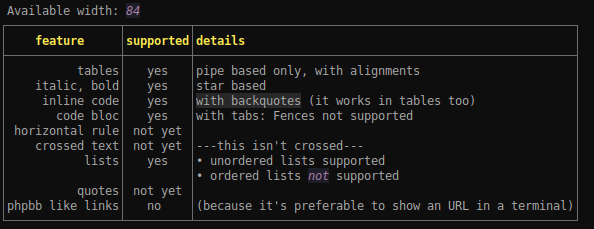
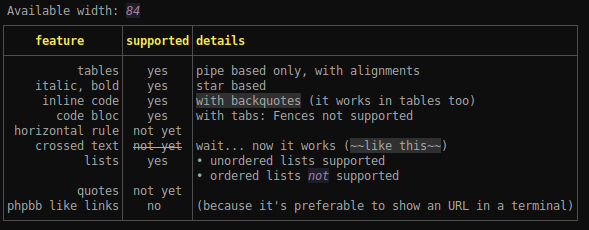
support strikeout text (with ~~)
Also fixes some width related bugs

Changed region(s): [[0.0, 0.0, 0.9779, 0.9782]]

diff --git a/src/skin.rs b/src/skin.rs
@@ -1,4 +1,4 @@
-use crate::area::Area;
+use crate::area::{Area, terminal_size};
 use crate::composite::FmtComposite;
 use crate::inline::FmtInline;
 use crate::line::FmtLine;
@@ -17,6 +17,7 @@ pub struct MadSkin {
     pub paragraph: LineStyle,
     pub bold: CompoundStyle,
     pub italic: CompoundStyle,
+    pub strikeout: CompoundStyle,
     pub code: LineStyle,
     pub headers: [LineStyle; MAX_HEADER_DEPTH],
     pub scrollbar: ScrollBarStyle,
@@ -31,6 +32,7 @@ impl Default for MadSkin {
             paragraph: LineStyle::default(),
             bold: CompoundStyle::new(Some(Color::White), None, vec![Attribute::Bold]),
             italic: CompoundStyle::with_attr(Attribute::Italic),
+            strikeout: CompoundStyle::with_attr(Attribute::CrossedOut),
             code: LineStyle::default(),
             headers: Default::default(),
             scrollbar: ScrollBarStyle::new(),
@@ -97,6 +99,9 @@ impl MadSkin {
         if compound.italic {
             os.overwrite_with(&self.italic);
         }
+        if compound.strikeout {
+            os.overwrite_with(&self.strikeout);
+        }
         if compound.bold {
             os.overwrite_with(&self.bold);
         }
@@ -118,6 +123,7 @@ impl MadSkin {
             composite,
         }
     }
+
     /// return a formatted text.
     /// Code blocs will be right justified
     pub fn text<'k, 's>(&'k self, src: &'s str, width: Option<usize>) -> FmtText<'k, 's> {
@@ -128,14 +134,15 @@ impl MadSkin {
     /// width.
     /// Code blocs will be right justified
     pub fn term_text<'k, 's>(&'k self, src: &'s str) -> FmtText<'k, 's> {
-        let (width, _) = Terminal::new().terminal_size();
+        let (width, _) = terminal_size();
         FmtText::from(self, src, Some(width as usize))
     }
+
     /// return a formatted text, with lines wrapped or justified for the
     /// passed area width (with space for a scrollbar).
     /// Code blocs will be right justified
     pub fn area_text<'k, 's>(&'k self, src: &'s str, area: &Area) -> FmtText<'k, 's> {
-        FmtText::from(self, src, Some(area.width as usize-1))
+        FmtText::from(self, src, Some(area.width as usize))
     }
 
     pub fn print_inline(&self, src: &str) {
@@ -150,6 +157,7 @@ impl MadSkin {
         f: &mut fmt::Formatter<'_>,
         fc: &FmtComposite<'_>,
         outer_width: Option<usize>,
+        with_right_completion: bool,
     ) -> fmt::Result {
         let ls = self.line_style(&fc.composite.style);
         let (lpi, rpi) = fc.completions(); // inner completion
@@ -177,44 +185,52 @@ impl MadSkin {
         for _ in 0..rpi {
             write!(f, "{}", &ispace)?;
         }
-        for _ in 0..rpo {
-            write!(f, "{}", &ospace)?;
+        if with_right_completion {
+            for _ in 0..rpo {
+                write!(f, "{}", &ospace)?;
+            }
         }
         Ok(())
     }
 
+    /// write a line in the passed formatter, with completions.
+    /// Right completion is optional (if a text isn't right completed
+    /// it shrinks better when you reduce the width of the terminal)
     pub fn write_fmt_line(
         &self,
         f: &mut fmt::Formatter<'_>,
         line: &FmtLine<'_>,
         width: Option<usize>,
+        with_right_completion: bool,
     ) -> fmt::Result {
         match line {
             FmtLine::Normal(fc) => {
-                self.write_fmt_composite(f, fc, width)?;
+                self.write_fmt_composite(f, fc, width, with_right_completion)?;
             }
             FmtLine::TableRow(FmtTableRow{cells}) => {
                 let mut iw = 0;
                 for cell in cells {
                     write!(f, "{}", self.table_border.apply_to("│"))?;
-                    self.write_fmt_composite(f, &cell, None)?;
+                    self.write_fmt_composite(f, &cell, None, false)?;
                     if let Some(spacing) = cell.spacing {
                         iw += spacing.width;
                     } else {
                         iw += cell.visible_length;
                     }
+                    iw += 1;
                 }
                 write!(f, "{}", self.table_border.apply_to("│"))?;
-                if let Some(width) = width {
-                    let ospace = self.paragraph.compound_style.apply_to(" ");
-                    iw += 1;
-                    for _ in iw..width {
-                        write!(f, "{}", &ospace)?;
+                if with_right_completion {
+                    if let Some(width) = width {
+                        let ospace = self.paragraph.compound_style.apply_to(" ");
+                        iw += 1;
+                        for _ in iw..width {
+                            write!(f, "{}", &ospace)?;
+                        }
                     }
                 }
             }
             FmtLine::TableRule(rule) => {
-                // FIXME add right complement
                 write!(f, "{}", self.table_border.apply_to(match rule.position {
                     RelativePosition::Top => '┌',
                     RelativePosition::Other => '├',
@@ -241,11 +257,13 @@ impl MadSkin {
                     RelativePosition::Other => '┤',
                     RelativePosition::Bottom => '┘',
                 }))?;
-                if let Some(width) = width {
-                    let ospace = self.paragraph.compound_style.apply_to(" ");
-                    iw += 1;
-                    for _ in iw..width {
-                        write!(f, "{}", &ospace)?;
+                if with_right_completion {
+                    if let Some(width) = width {
+                        let ospace = self.paragraph.compound_style.apply_to(" ");
+                        iw += 1;
+                        for _ in iw..width {
+                            write!(f, "{}", &ospace)?;
+                        }
                     }
                 }
             }

diff --git a/src/area.rs b/src/area.rs
@@ -39,18 +39,13 @@ impl Area {
 
     /// build an area covering the whole terminal
     pub fn full_screen() -> Area {
-        let (width, height) = Terminal::new().terminal_size();
+        let (width, height) = terminal_size();
         Area {
             left: 0,
             top: 0,
             width,
             height,
         }
-    }
-
-    /// return the last line of the area (included)
-    pub fn bottom(&self) -> u16 {
-        return self.top + self.height - 1;
     }
 
     pub fn pad(&mut self, dx: u16, dy: u16) {
@@ -78,4 +73,11 @@ impl Area {
         let sc = scroll * h / content_height;
         Some((sc as u16, (sc + sbh + 1).min(h+1) as u16))
     }
+}
+
+pub fn terminal_size() -> (u16, u16) {
+    let (w, h) = Terminal::new().terminal_size();
+    // there's a bug in crossterm 0.9.6. It reports a size smaller by
+    //  one in both directions
+    (w + 1, h + 1)
 }

diff --git a/examples/table/main.rs b/examples/table/main.rs
@@ -10,7 +10,7 @@ static MD_TABLE: &str = r#"
 | inline code | yes | `with backquotes` (it works in tables too)
 | code bloc | yes |with tabs: Fences not supported
 | horizontal rule |  not yet
-| crossed text |  not yet | ---this isn't crossed---
+| crossed text |  ~~not yet~~ | wait... now it works (`~~like this~~`)
 | lists | yes|* unordered lists supported
 |  | |* ordered lists *not* supported
 | quotes |  not yet
@@ -24,7 +24,7 @@ fn main() {
     skin.set_headers_fg(rgb!(255, 187, 0));
     skin.bold.set_fg(Yellow);
     skin.italic.set_fgbg(Magenta, rgb!(30, 30, 40));
-    let (width, _) = Terminal::new().terminal_size();
+    let (width, _) = terminal_size();
     let mut markdown = format!(" Available width: *{}*", width);
     markdown.push_str(MD_TABLE);
     println!("{}", skin.term_text(&markdown));

diff --git a/src/text_view.rs b/src/text_view.rs
@@ -56,7 +56,7 @@ impl<'a, 't> TextView<'a, 't> {
         let scrollbar = self.scrollbar();
         let sx = self.area.left + self.area.width;
         let mut i = self.scroll as usize;
-        for y in 0..=self.area.height {
+        for y in 0..self.area.height {
             cursor.goto(self.area.left, self.area.top+y)?;
             if i < self.text.lines.len() {
                 let dl = DisplayableLine::new(

diff --git a/src/tbl.rs b/src/tbl.rs
@@ -270,7 +270,7 @@ fn find_tables(lines: &Vec<FmtLine<'_>>) -> Vec<Table> {
 //  precedent indexing might be invalid.
 pub fn fix_all_tables(lines: &mut Vec<FmtLine<'_>>, width: usize) {
     for tbl in find_tables(lines).iter_mut().rev() {
-        tbl.fix_columns(lines, width+1); // FIXME why do I need this +1 ? Where did I fail ?
+        tbl.fix_columns(lines, width);
     }
 }
 

diff --git a/examples/scrollable/main.rs b/examples/scrollable/main.rs
@@ -124,6 +124,6 @@ It's a little out of context but it shows how a wide table can be wrapped in a t
 | italic, bold | yes | star based only|
 | inline code | yes |
 | code bloc | yes |with tabs. Fences not supported
-| crossed text |  not yet
+| crossed text |  ~~not yet~~ | wait... now it works!
 | phpbb like links | no | (because it's preferable to show an URL in a terminal)
 "#;

diff --git a/src/text.rs b/src/text.rs
@@ -39,7 +39,7 @@ impl<'k, 's> FmtText<'k, 's> {
 impl fmt::Display for FmtText<'_, '_> {
     fn fmt(&self, f: &mut fmt::Formatter<'_>) -> fmt::Result {
         for line in &self.lines {
-            self.skin.write_fmt_line(f, line, self.width)?;
+            self.skin.write_fmt_line(f, line, self.width, false)?;
             writeln!(f)?;
         }
         Ok(())

diff --git a/src/displayable_line.rs b/src/displayable_line.rs
@@ -23,7 +23,7 @@ impl<'s, 'l, 'p> DisplayableLine<'s, 'l, 'p> {
 
 impl fmt::Display for DisplayableLine<'_, '_, '_> {
     fn fmt(&self, f: &mut fmt::Formatter<'_>) -> fmt::Result {
-        self.skin.write_fmt_line(f, self.line, self.width)?;
+        self.skin.write_fmt_line(f, self.line, self.width, true)?;
         writeln!(f)
     }
 }

diff --git a/src/inline.rs b/src/inline.rs
@@ -15,6 +15,6 @@ pub struct FmtInline<'k, 's> {
 
 impl fmt::Display for FmtInline<'_, '_> {
     fn fmt(&self, f: &mut fmt::Formatter<'_>) -> fmt::Result {
-        self.skin.write_fmt_composite(f, &self.composite, None)
+        self.skin.write_fmt_composite(f, &self.composite, None, false)
     }
 }

diff --git a/src/lib.rs b/src/lib.rs
@@ -31,6 +31,7 @@ pub use text_view::TextView;
 pub use mad_view::MadView;
 pub use style::{CompoundStyle, LineStyle};
 pub use minimad::Alignment;
+pub use area::terminal_size;
 
 /// return a reference to the global skin (modifiable).
 /// If you want a new default skin without messing with

diff --git a/README.md b/README.md
@@ -35,7 +35,7 @@ For example this markdown:
 	| inline code | yes | `with backquotes` (it works in tables too)
 	| code bloc | yes |with tabs: Fences not supported
 	| horizontal rule |  not yet
-	| crossed text |  not yet | ---this isn't crossed---
+	| crossed text |  ~~not yet~~ | wait... now it works (`~~like this~~`)
 	| lists | yes|* unordered lists supported
 	|  | |* ordered lists *not* supported
 	| quotes |  not yet
@@ -46,7 +46,7 @@ will give different results depending on the width:
 
 ![table](doc/table-in-84.png)
 
-![table](doc/table-in-60.png)
+![table](doc/table-in-62.png)
 
 ##  Usage
 
